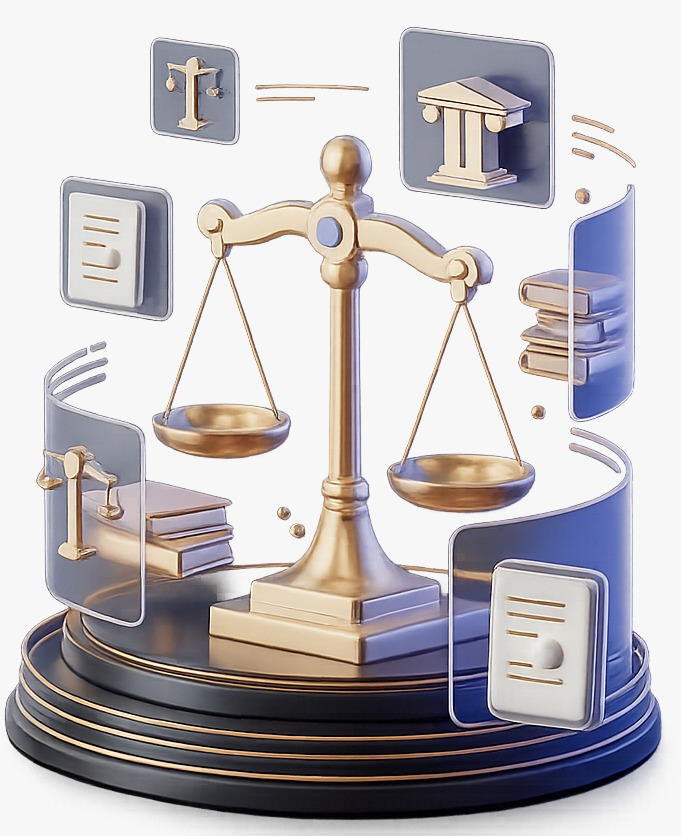
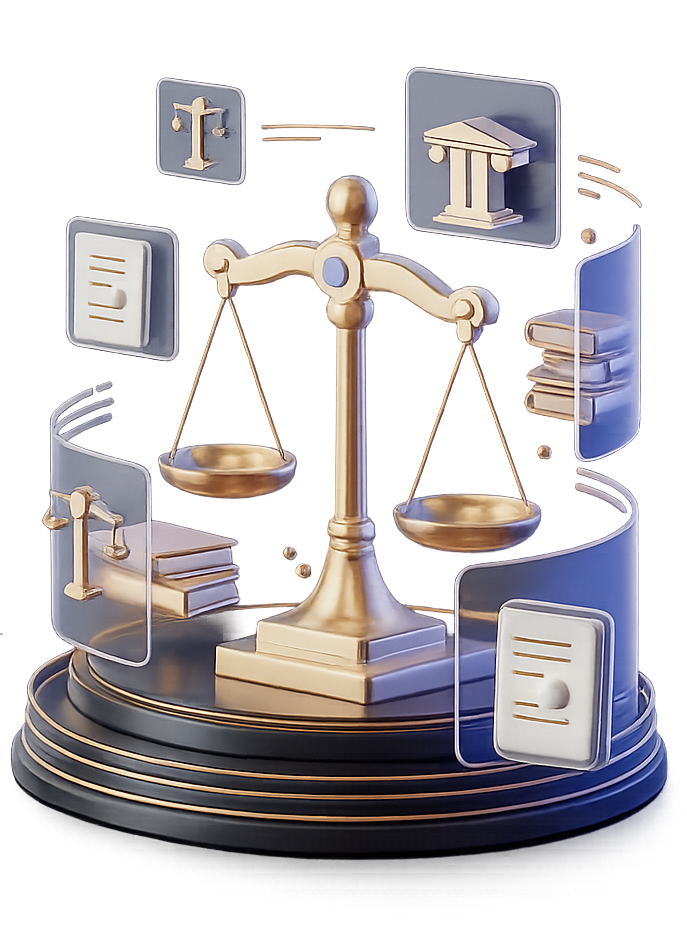
with image

diff --git a/client/components/sections/HeroSection.tsx b/client/components/sections/HeroSection.tsx
@@ -1,41 +1,17 @@
 "use client";
 import { useEffect, useRef } from "react";
-
-const BOOK_COLORS = [
-  "#8B4513","#C4963A","#1A3A5C","#5C2A1A","#2A4A1A",
-  "#4A3A1A","#1A5C3A","#7A3A1A","#1A2C52","#5C1A1A",
-  "#2A3A1A","#8B2513",
-];
-const BOOK_HEIGHTS = [68,80,65,90,70,75,82,67,86,73,78,85,69];
-
-function BookShelf({ count = 22 }: { count?: number }) {
-  return (
-    <div style={{ display:"flex", alignItems:"flex-end", padding:"0 12px", gap:3, width:"100%", height:"100%" }}>
-      {Array.from({ length: count }).map((_, i) => (
-        <div
-          key={i}
-          style={{
-            height: `${BOOK_HEIGHTS[i % BOOK_HEIGHTS.length]}%`,
-            width: 10 + (i % 3) * 3,
-            background: BOOK_COLORS[i % BOOK_COLORS.length],
-            borderRadius: "2px 2px 0 0",
-            flexShrink: 0,
-          }}
-        />
-      ))}
-    </div>
-  );
-}
+import Image from 'next/image';
 
 export default function HeroSection() {
-  const libraryRef = useRef<HTMLDivElement>(null);
+  const imageRef = useRef<HTMLDivElement>(null);
 
   useEffect(() => {
     const onScroll = () => {
-      if (libraryRef.current) {
-        libraryRef.current.style.transform = `translateY(${window.scrollY * 0.055}px)`;
+      if (imageRef.current) {
+        imageRef.current.style.transform = `translateY(${window.scrollY * 0.05}px)`;
       }
     };
+
     window.addEventListener("scroll", onScroll, { passive: true });
     return () => window.removeEventListener("scroll", onScroll);
   }, []);
@@ -44,6 +20,7 @@ export default function HeroSection() {
     <section
       id="hero"
       style={{
+        width: "100%",
         minHeight: "100vh",
         background: "var(--cream)",
         display: "flex",
@@ -53,188 +30,180 @@ export default function HeroSection() {
         overflow: "hidden",
       }}
     >
-      {/* BG radial */}
-      <div style={{
-        position:"absolute", inset:0, pointerEvents:"none",
-        background: "radial-gradient(ellipse 65% 55% at 68% 50%, rgba(196,150,58,0.07) 0%, transparent 70%), radial-gradient(ellipse 35% 35% at 8% 78%, rgba(26,44,66,0.04) 0%, transparent 60%)",
-      }} />
-      {/* Rules */}
+      {/* Background radial glow */}
+      <div
+        style={{
+          position: "absolute",
+          inset: 0,
+          pointerEvents: "none",
+          background:
+            "radial-gradient(ellipse 65% 55% at 70% 50%, rgba(196,150,58,0.07) 0%, transparent 70%), radial-gradient(ellipse 35% 35% at 10% 80%, rgba(26,44,66,0.04) 0%, transparent 60%)",
+        }}
+      />
+
+      {/* Decorative horizontal rules */}
       <div className="hero-rule" style={{ top: 100 }} />
       <div className="hero-rule" style={{ bottom: 80 }} />
 
-      {/* LEFT TEXT */}
-      <div style={{ flex:1, maxWidth:540, position:"relative", zIndex:2 }}>
+      {/* LEFT TEXT CONTENT */}
+      <div style={{ flex: 1, maxWidth: 540, position: "relative", zIndex: 2 }}>
+        
         {/* Badge */}
-        <div className="hero-anim-1" style={{
-          display:"inline-flex", alignItems:"center", gap:10,
-          background:"rgba(139,105,20,0.08)", border:"1px solid rgba(139,105,20,0.25)",
-          borderRadius:100, padding:"5px 14px",
-          fontSize:11, letterSpacing:"2px", textTransform:"uppercase", color:"#A07820",
-          marginBottom:28,
-        }}>
-          <span className="blink-dot" style={{ width:5, height:5, borderRadius:"50%", background:"#C4963A", display:"inline-block" }} />
+        <div
+          style={{
+            display: "inline-flex",
+            alignItems: "center",
+            gap: 10,
+            background: "rgba(139,105,20,0.08)",
+            border: "1px solid rgba(139,105,20,0.25)",
+            borderRadius: 100,
+            padding: "5px 14px",
+            fontSize: 11,
+            letterSpacing: "2px",
+            textTransform: "uppercase",
+            color: "#A07820",
+            marginBottom: 28,
+          }}
+        >
+          <span
+            style={{
+              width: 5,
+              height: 5,
+              borderRadius: "50%",
+              background: "#C4963A",
+              display: "inline-block",
+            }}
+          />
           AI-Powered Legal Platform
         </div>
 
-        {/* H1 */}
-        <h1 className="hero-anim-2 font-playfair" style={{
-          fontSize:"clamp(34px,4.2vw,58px)", fontWeight:700, lineHeight:1.15,
-          color:"var(--navy)", marginBottom:20,
-        }}>
+        {/* Heading */}
+        <h1
+          className="font-playfair"
+          style={{
+            fontSize: "clamp(34px,4.2vw,58px)",
+            fontWeight: 700,
+            lineHeight: 1.15,
+            color: "var(--navy)",
+            marginBottom: 20,
+          }}
+        >
           AI-Powered{" "}
-          <em style={{ fontStyle:"italic", color:"var(--gold-mid)" }}>Legal Intelligence</em>
-          {" "}for Everyone
+          <em style={{ fontStyle: "italic", color: "var(--gold-mid)" }}>
+            Legal Intelligence
+          </em>{" "}
+          for Everyone
         </h1>
 
         {/* Tagline */}
-        <p className="hero-anim-3 font-cormorant" style={{
-          fontSize:19, fontWeight:400, lineHeight:1.7,
-          color:"var(--text-mid)", marginBottom:12,
-        }}>
-          Analyze cases, review contracts, and understand laws instantly using advanced AI and trusted legal data.
+        <p
+          className="font-cormorant"
+          style={{
+            fontSize: 19,
+            fontWeight: 400,
+            lineHeight: 1.7,
+            color: "var(--text-mid)",
+            marginBottom: 12,
+          }}
+        >
+          Analyze cases, review contracts, and understand laws instantly using
+          advanced AI and trusted legal data.
         </p>
 
-        {/* Desc */}
-        <p className="hero-anim-4" style={{
-          fontSize:14, lineHeight:1.75,
-          color:"var(--text-light)", marginBottom:40,
-        }}>
-          Our platform combines artificial intelligence with verified legal databases to help users analyze cases, detect risky contract clauses, and stay updated with the latest laws — no legal degree required.
+        {/* Description */}
+        <p
+          style={{
+            fontSize: 14,
+            lineHeight: 1.75,
+            color: "var(--text-light)",
+            marginBottom: 40,
+          }}
+        >
+          Our platform combines artificial intelligence with verified legal
+          databases to help users analyze cases, detect risky contract clauses,
+          and stay updated with the latest laws — no legal degree required.
         </p>
 
         {/* Buttons */}
-        <div className="hero-anim-5" style={{ display:"flex", gap:14, flexWrap:"wrap" }}>
+        <div style={{ display: "flex", gap: 14, flexWrap: "wrap" }}>
           <a
             href="#features"
             style={{
-              background:"linear-gradient(135deg,#8B6914,#C4963A)",
-              color:"#fff", fontSize:14, fontWeight:500,
-              padding:"13px 30px", borderRadius:6,
-              textDecoration:"none", border:"none", cursor:"pointer",
-              boxShadow:"0 4px 16px rgba(139,105,20,0.35)",
-              transition:"all 0.3s", display:"inline-flex", alignItems:"center", gap:8,
+              background: "linear-gradient(135deg,#8B6914,#C4963A)",
+              color: "#fff",
+              fontSize: 14,
+              fontWeight: 500,
+              padding: "13px 30px",
+              borderRadius: 6,
+              textDecoration: "none",
+              boxShadow: "0 4px 16px rgba(139,105,20,0.35)",
+              transition: "all 0.3s",
             }}
-            onMouseEnter={e=>{(e.currentTarget as HTMLAnchorElement).style.transform="translateY(-2px)";(e.currentTarget as HTMLAnchorElement).style.boxShadow="0 8px 24px rgba(139,105,20,0.45)";}}
-            onMouseLeave={e=>{(e.currentTarget as HTMLAnchorElement).style.transform="";(e.currentTarget as HTMLAnchorElement).style.boxShadow="0 4px 16px rgba(139,105,20,0.35)";}}
           >
             Get Started →
           </a>
+
           <a
             href="#purpose"
             style={{
-              background:"transparent", color:"var(--navy)",
-              fontSize:14, fontWeight:500,
-              padding:"13px 30px", borderRadius:6,
-              border:"1.5px solid rgba(26,44,66,0.25)",
-              textDecoration:"none", cursor:"pointer", transition:"all 0.3s",
+              background: "transparent",
+              color: "var(--navy)",
+              fontSize: 14,
+              fontWeight: 500,
+              padding: "13px 30px",
+              borderRadius: 6,
+              border: "1.5px solid rgba(26,44,66,0.25)",
+              textDecoration: "none",
             }}
-            onMouseEnter={e=>{(e.currentTarget as HTMLAnchorElement).style.borderColor="#1A2C42";(e.currentTarget as HTMLAnchorElement).style.background="rgba(26,44,66,0.04)";(e.currentTarget as HTMLAnchorElement).style.transform="translateY(-2px)";}}
-            onMouseLeave={e=>{(e.currentTarget as HTMLAnchorElement).style.borderColor="rgba(26,44,66,0.25)";(e.currentTarget as HTMLAnchorElement).style.background="";(e.currentTarget as HTMLAnchorElement).style.transform="";}}
           >
             Learn More
           </a>
         </div>
       </div>
 
-      {/* RIGHT — Library Frame */}
-      <div className="hero-anim-visual" style={{ flex:"0 0 460px", height:500, position:"relative", zIndex:2, marginLeft:60 }}>
+      {/* RIGHT IMAGE SECTION */}
+      <div
+        ref={imageRef}
+        style={{
+          flex: "0 0 460px",
+          height: 500,
+          position: "relative",
+          zIndex: 2,
+          marginLeft: 60,
+          display: "flex",
+          alignItems: "center",
+          justifyContent: "center",
+        }}
+      >
+        {/* glow behind image */}
         <div
-          ref={libraryRef}
           style={{
-            width:"100%", height:"100%",
-            background:"linear-gradient(165deg,#1a2c42 0%,#0f1e33 60%,#1a2c42 100%)",
-            borderRadius:12, position:"relative", overflow:"hidden",
-            boxShadow:"0 24px 80px rgba(26,44,66,0.22), 0 0 0 1px rgba(139,105,20,0.2)",
+            position: "absolute",
+            width: 380,
+            height: 380,
+            borderRadius: "50%",
+            background:
+              "radial-gradient(circle, rgba(196,150,58,0.25) 0%, rgba(196,150,58,0.08) 40%, transparent 70%)",
+            filter: "blur(40px)",
           }}
-        >
-          {/* Grid overlay */}
-          <div style={{ position:"absolute", inset:0, backgroundImage:"repeating-linear-gradient(90deg,transparent,transparent 60px,rgba(139,105,20,0.04) 60px,rgba(139,105,20,0.04) 61px),repeating-linear-gradient(0deg,transparent,transparent 60px,rgba(139,105,20,0.04) 60px,rgba(139,105,20,0.04) 61px)" }} />
+        />
 
-          {/* Corner brackets */}
-          {["corner-tl","corner-tr","corner-bl","corner-br"].map(c=>(
-            <div key={c} className={c} style={{ position:"absolute", width:26, height:26, borderColor:"rgba(139,105,20,0.5)", borderStyle:"solid" }} />
-          ))}
-
-          {/* Shelves */}
-          <div style={{ position:"absolute", left:0, right:0, top:"33%", height:2, background:"rgba(139,105,20,0.25)" }} />
-          <div style={{ position:"absolute", left:0, right:0, top:"66%", height:2, background:"rgba(139,105,20,0.25)" }} />
-
-          {/* Top books */}
-          <div style={{ position:"absolute", top:"2%", left:0, right:0, height:"32%", display:"flex", alignItems:"flex-end" }}>
-            <BookShelf count={20} />
-          </div>
-          {/* Bottom books */}
-          <div style={{ position:"absolute", bottom:0, left:0, right:0, height:"33%", display:"flex", alignItems:"flex-end" }}>
-            <BookShelf count={22} />
-          </div>
-
-          {/* Center: glow + scales + badge */}
-          <div style={{ position:"absolute", top:"50%", left:"50%", transform:"translate(-50%,-50%)", textAlign:"center", zIndex:3 }}>
-            <div style={{ position:"relative", display:"inline-block" }}>
-              <div className="glow-ring" />
-              {/* Scales SVG */}
-              <svg width="136" height="126" viewBox="0 0 136 126" fill="none" xmlns="http://www.w3.org/2000/svg"
-                style={{ filter:"drop-shadow(0 0 14px rgba(77,217,224,0.45))", position:"relative", zIndex:1 }}>
-                <defs>
-                  <linearGradient id="gg" x1="0" y1="0" x2="1" y2="1">
-                    <stop offset="0%" stopColor="#9B7E4B" />
-                    <stop offset="100%" stopColor="#D4AF6B" />
-                  </linearGradient>
-                </defs>
-                {/* Pole */}
-                <rect x="64" y="26" width="6" height="76" rx="2" fill="url(#gg)" />
-                <circle cx="67" cy="22" r="5" fill="url(#gg)" />
-                <polygon points="67,9 71,22 63,22" fill="url(#gg)" />
-                {/* Arm */}
-                <rect x="16" y="48" width="102" height="4" rx="2" fill="url(#gg)">
-                  <animateTransform attributeName="transform" type="rotate"
-                    values="0 67 50;1.5 67 50;0 67 50;-1 67 50;0 67 50"
-                    dur="4s" repeatCount="indefinite" />
-                </rect>
-                {/* Left pan */}
-                <line x1="25" y1="52" x2="20" y2="84" stroke="#C4A35A" strokeWidth="1.5" />
-                <line x1="25" y1="52" x2="30" y2="84" stroke="#C4A35A" strokeWidth="1.5" />
-                <ellipse cx="25" cy="90" rx="20" ry="6" fill="url(#gg)" opacity="0.9" />
-                <ellipse cx="25" cy="87" rx="20" ry="6" fill="url(#gg)" opacity="0.5" />
-                {/* Right pan */}
-                <line x1="109" y1="52" x2="104" y2="78" stroke="#C4A35A" strokeWidth="1.5" />
-                <line x1="109" y1="52" x2="114" y2="78" stroke="#C4A35A" strokeWidth="1.5" />
-                <ellipse cx="109" cy="84" rx="20" ry="6" fill="url(#gg)" opacity="0.9" />
-                <ellipse cx="109" cy="81" rx="20" ry="6" fill="url(#gg)" opacity="0.5" />
-                {/* Base */}
-                <rect x="52" y="104" width="30" height="9" rx="2" fill="url(#gg)" />
-                <rect x="44" y="113" width="46" height="5" rx="1" fill="url(#gg)" opacity="0.65" />
-                {/* Scan line */}
-                <line x1="8" y1="50" x2="126" y2="50" stroke="#4DD9E0" strokeWidth="0.7"
-                  strokeDasharray="5,9" opacity="0.45">
-                  <animate attributeName="strokeDashoffset" values="0;-56" dur="2s" repeatCount="indefinite" />
-                </line>
-              </svg>
-            </div>
-
-            {/* Brand text inside frame */}
-            <div style={{ fontFamily:"'Playfair Display',serif", fontSize:22, fontWeight:700, letterSpacing:3, color:"#F7F3E8", marginTop:10 }}>
-              E-Bench
-            </div>
-            <div style={{ fontSize:9, letterSpacing:"3px", textTransform:"uppercase", color:"#D4AF6B", marginTop:2 }}>
-              Digital Justice
-            </div>
-          </div>
-
-          {/* Particles */}
-          {[
-            { size:4, left:"14%", bottom:"22%", dur:4, delay:0 },
-            { size:3, left:"76%", bottom:"33%", dur:5, delay:1 },
-            { size:5, left:"42%", bottom:"12%", dur:3.5, delay:0.6 },
-          ].map((p, i) => (
-            <div key={i} className="particle-el" style={{
-              width:p.size, height:p.size,
-              left:p.left, bottom:p.bottom,
-              animationDuration:`${p.dur}s`,
-              animationDelay:`${p.delay}s`,
-            }} />
-          ))}
-        </div>
+<Image
+  src="/legal-balance.png"
+  alt="Legal Balance"
+  width={500}
+  height={500} // Provide the original aspect ratio height
+  priority // Use this if the image is "above the fold" (visible on load)
+  style={{
+    height: "auto",
+    objectFit: "contain",
+    position: "absolute",
+    right: "-50px",
+    zIndex: 2,
+    filter: "drop-shadow(0 25px 60px rgba(26,44,66,0.35))",
+    animation: "floatBalance 6s ease-in-out infinite",
+  }}
+/>
       </div>
     </section>
   );

diff --git a/client/app/globals.css b/client/app/globals.css
@@ -174,3 +174,14 @@ body {
 .corner-tr { top: 12px; right: 12px; border-width: 1.5px 1.5px 0 0; }
 .corner-bl { bottom: 12px; left: 12px; border-width: 0 0 1.5px 1.5px; }
 .corner-br { bottom: 12px; right: 12px; border-width: 0 1.5px 1.5px 0; }
+@keyframes floatBalance {
+  0% {
+    transform: translateY(0px) rotateY(0deg);
+  }
+  50% {
+    transform: translateY(-18px) rotateY(5deg);
+  }
+  100% {
+    transform: translateY(0px) rotateY(0deg);
+  }
+}
